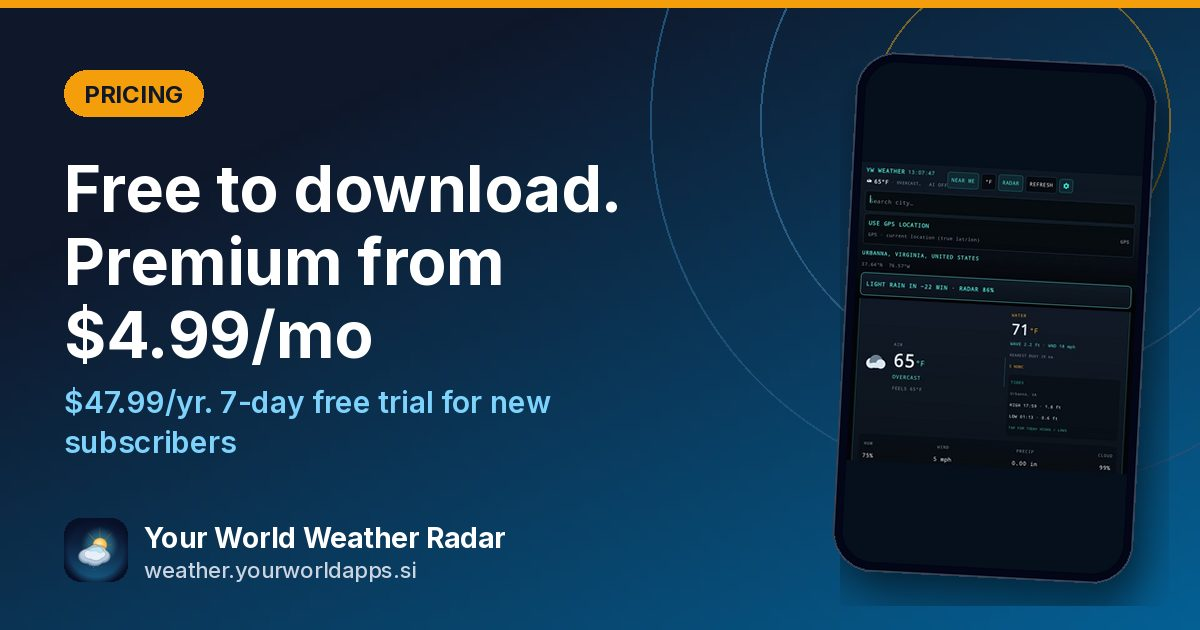
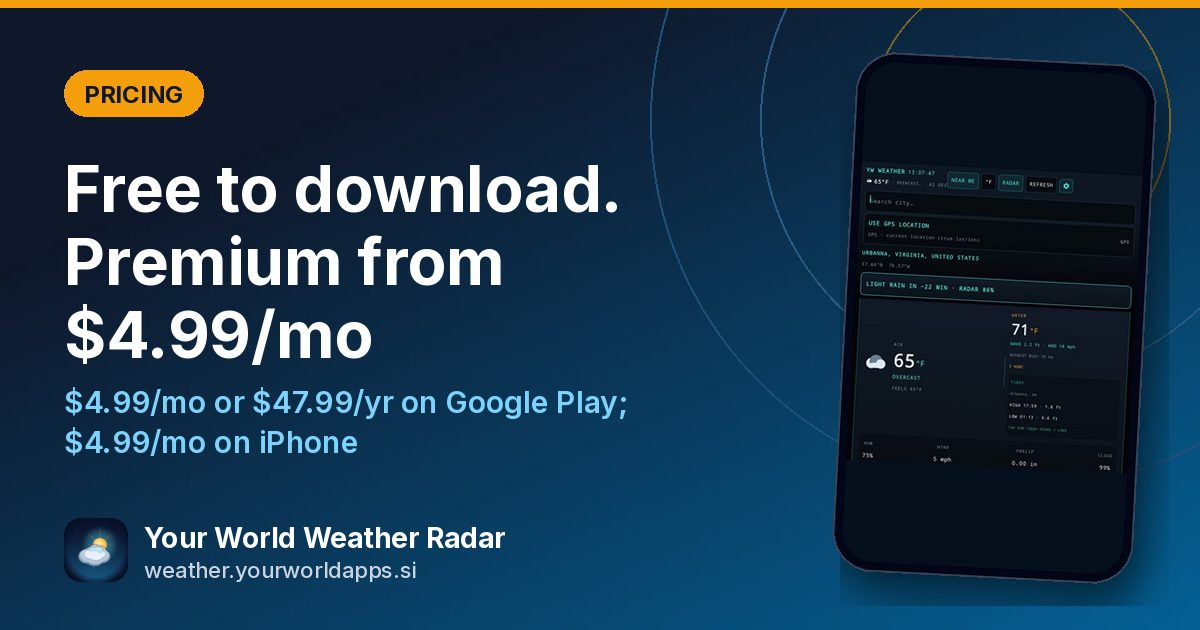
SEO: iPhone+Android meta, sitemap, guide sources, share images

Changed region(s): [[0.0308, 0.6032, 0.5242, 0.7238]]

diff --git a/index.html b/index.html
@@ -1,9 +1,9 @@
 <!doctype html>
 <html lang="en"><head><meta charset="utf-8"><meta name="viewport" content="width=device-width,initial-scale=1">
-<title>Your World Weather Radar: Live Radar, Storm Alerts &amp; AI Briefings</title><meta name="description" content="Know when rain hits your spot: a free rain ETA for your exact location, plus live radar, storm tracks and weather alerts. For Android."><link rel="canonical" href="https://weather.yourworldapps.si/">
+<title>Your World Weather Radar: Live Radar, Storm Alerts &amp; AI Briefings</title><meta name="description" content="Know when rain hits your spot: a free rain ETA for your exact location, plus live radar, storm tracks and weather alerts. For iPhone and Android."><link rel="canonical" href="https://weather.yourworldapps.si/">
 <meta property="og:type" content="website"><meta property="og:site_name" content="Your World Weather Radar"><meta property="og:title" content="Your World Weather Radar: Live Radar, Storm Alerts &amp; AI Briefings">
-<meta property="og:description" content="Know when rain hits your spot: a free rain ETA for your exact location, plus live radar, storm tracks and weather alerts. For Android."><meta property="og:url" content="https://weather.yourworldapps.si/"><meta property="og:image" content="https://weather.yourworldapps.si/assets/og-image.png?v=d64e3245af"><meta property="og:image:width" content="1200"><meta property="og:image:height" content="630">
-<meta name="twitter:card" content="summary_large_image"><meta name="twitter:title" content="Your World Weather Radar: Live Radar, Storm Alerts &amp; AI Briefings"><meta name="twitter:description" content="Know when rain hits your spot: a free rain ETA for your exact location, plus live radar, storm tracks and weather alerts. For Android."><meta name="twitter:image" content="https://weather.yourworldapps.si/assets/og-image.png?v=d64e3245af"><meta name="theme-color" content="#0F172A">
+<meta property="og:description" content="Know when rain hits your spot: a free rain ETA for your exact location, plus live radar, storm tracks and weather alerts. For iPhone and Android."><meta property="og:url" content="https://weather.yourworldapps.si/"><meta property="og:image" content="https://weather.yourworldapps.si/assets/og/index.jpg?v=73c346eb14"><meta property="og:image:width" content="1200"><meta property="og:image:height" content="630">
+<meta name="twitter:card" content="summary_large_image"><meta name="twitter:title" content="Your World Weather Radar: Live Radar, Storm Alerts &amp; AI Briefings"><meta name="twitter:description" content="Know when rain hits your spot: a free rain ETA for your exact location, plus live radar, storm tracks and weather alerts. For iPhone and Android."><meta name="twitter:image" content="https://weather.yourworldapps.si/assets/og/index.jpg?v=73c346eb14"><meta name="theme-color" content="#0F172A">
 <meta name="apple-itunes-app" content="app-id=6822555783"><link rel="icon" href="assets/favicon.png"><link rel="apple-touch-icon" href="assets/icon-192.png">
 <link rel="stylesheet" href="assets/site.css?v=8e7121f917"><link rel="stylesheet" href="/assets/launches.css?v=c8b3c43e03"><style>.home-cta{display:flex;flex-wrap:wrap;align-items:center;gap:14px 18px;margin:22px 0 10px}.home-cta .btns{margin:0}.home-plan{margin:0 0 6px}.home-qr{display:none;text-decoration:none;color:#E2E8F0;flex:0 0 auto;flex-direction:column;align-items:center;gap:8px;text-align:center}.home-qr-card{display:block;background:#fff;border-radius:14px;padding:8px;box-shadow:0 8px 24px rgba(2,6,23,.28);line-height:0}.home-qr-card img{width:112px;height:112px;display:block;border-radius:4px}.home-qr-cap{display:flex;flex-direction:column;gap:1px;font-size:.82rem;line-height:1.25}.home-qr-cap b{font-weight:700;color:#F8FAFC}.home-qr-cap small{font-size:.72rem;color:#CBD5E1}.home-qr:hover .home-qr-card{box-shadow:0 10px 28px rgba(2,6,23,.4)}.home-qr:focus-visible{outline:3px solid #7DD3FC;outline-offset:3px;border-radius:12px}@media(min-width:700px){.home-qr{display:inline-flex}.home-cta .home-store{flex-direction:column;align-items:stretch;gap:10px;max-width:280px}.home-cta .home-store .btn{justify-content:center;width:100%}}@media(max-width:699px){.home-cta .home-store{width:100%}.home-cta .home-store .btn{justify-content:center}}</style><noscript><style>.top .nav{display:flex!important;overflow-x:auto}.menu-btn{display:none!important}</style></noscript><script type="application/ld+json">{"@context": "https://schema.org", "@type": "MobileApplication", "name": "Your World Weather Radar", "operatingSystem": "Android, iOS 17.0+", "applicationCategory": "WeatherApplication", "author": {"@type": "Organization", "name": "Your World Apps", "url": "https://yourworldapps.si/", "logo": "https://weather.yourworldapps.si/assets/icon-512.png", "sameAs": ["https://www.youtube.com/channel/UCv_HP3UU30nKawvJ0AgHL3A", "https://yourworldapps.si/"]}, "installUrl": "https://play.google.com/store/apps/details?id=com.yourworld.weatheranalyzer", "sameAs": ["https://play.google.com/store/apps/details?id=com.yourworld.weatheranalyzer", "https://apps.apple.com/us/app/your-world-weather-radar/id6822555783"], "url": "https://weather.yourworldapps.si/", "offers": [{"@type": "Offer", "price": "0", "priceCurrency": "USD"}]}</script><script type="application/ld+json">{"@context": "https://schema.org", "@type": "Organization", "name": "Your World Apps", "url": "https://yourworldapps.si/", "logo": "https://weather.yourworldapps.si/assets/icon-512.png", "sameAs": ["https://www.youtube.com/channel/UCv_HP3UU30nKawvJ0AgHL3A", "https://yourworldapps.si/"]}</script><script type="application/ld+json">{"@context": "https://schema.org", "@type": "WebSite", "name": "Your World Weather Radar", "url": "https://weather.yourworldapps.si/", "publisher": {"@type": "Organization", "name": "Your World Apps", "url": "https://yourworldapps.si/", "logo": "https://weather.yourworldapps.si/assets/icon-512.png", "sameAs": ["https://www.youtube.com/channel/UCv_HP3UU30nKawvJ0AgHL3A", "https://yourworldapps.si/"]}}</script><script>window.YW_ATLAS="/assets/atlas.svg?v=d7aed4abbf"</script><script>(function(){var w=window,d=document,ID="G-BDB2EH3W4Z",K="yw-analytics-consent",c=null,tz="",on=false;w.dataLayer=w.dataLayer||[];function g(){dataLayer.push(arguments)}w.gtag=g;try{c=localStorage.getItem(K)}catch(e){}if(c!=="granted"&&c!=="denied")c=null;try{tz=Intl.DateTimeFormat().resolvedOptions().timeZone||""}catch(e){}var eu=/^Europe\//.test(tz)||/^(Atlantic\/(Canary|Madeira|Azores|Reykjavik|Faroe)|Arctic\/Longyearbyen)$/.test(tz);var A={ad_storage:"denied",ad_user_data:"denied",ad_personalization:"denied",wait_for_update:500};g("consent","default",Object.assign({analytics_storage:"denied",region:["AT","BE","BG","HR","CY","CZ","DK","EE","FI","FR","DE","GR","HU","IE","IT","LV","LT","LU","MT","NL","PL","PT","RO","SK","SI","ES","SE","IS","LI","NO","GB","CH"]},A));g("consent","default",Object.assign({analytics_storage:"granted"},A));if(c)g("consent","update",{analytics_storage:c});function load(){if(on)return;on=true;g("js",new Date());g("config",ID);var s=d.createElement("script");s.async=true;s.src="https://www.googletagmanager.com/gtag/js?id="+ID;d.head.appendChild(s)}w.YW_GA={eu:eu,choice:c,set:function(v){this.choice=v;try{localStorage.setItem(K,v)}catch(e){}g("consent","update",{analytics_storage:v});if(v==="granted")load();else d.cookie.split(";").forEach(function(x){var n=x.split("=")[0].trim();if(/^_ga/.test(n))["",";domain=.yourworldapps.si",";domain="+location.hostname].forEach(function(m){d.cookie=n+"=;expires=Thu, 01 Jan 1970 00:00:00 GMT;path=/"+m})})}};if(c==="granted"||(!c&&!eu))load()})();</script></head><body>
 <header class="top"><div class="wrap"><a class="brand" href="./"><img src="assets/icon-192.png" width="34" height="34" alt="">Your World Weather Radar</a><button type="button" class="menu-btn" aria-expanded="false" aria-controls="main-nav" aria-label="Open menu"><span class="mb-i" aria-hidden="true"></span><span class="mb-t">Menu</span></button><nav class="nav" id="main-nav" aria-label="Main"><a href="./" aria-current="page">Home</a><a href="flight/" data-ev="flight_page" data-sec="nav">Track my flight</a><a href="features.html">Features</a><a href="alert-planner/">Alert Planner</a><a href="trip-planner/">Trip Planner</a><a href="ask.html">Ask Atlas</a><a href="outlook.html">Outlook</a><a href="launches/">Launches</a><a href="guides/">Guides</a><a href="gear/">Gear</a><a href="pricing.html">Pricing</a><a href="support.html">Support</a></nav></div></header>

diff --git a/get/index.html b/get/index.html
@@ -1,11 +1,11 @@
 <!doctype html>
 <html lang="en"><head><meta charset="utf-8"><meta name="viewport" content="width=device-width,initial-scale=1">
-<title>Get Your World Weather Radar</title><meta name="description" content="Download Your World Weather Radar on Google Play or the App Store."><link rel="canonical" href="https://weather.yourworldapps.si/get/">
+<title>Get Your World Weather Radar</title><meta name="description" content="Download Your World Weather Radar on the App Store and Google Play. Free rain ETA, live radar and alerts for iPhone and Android."><link rel="canonical" href="https://weather.yourworldapps.si/get/">
 <meta property="og:type" content="website"><meta property="og:site_name" content="Your World Weather Radar"><meta property="og:title" content="Get Your World Weather Radar">
-<meta property="og:description" content="Download Your World Weather Radar on Google Play or the App Store."><meta property="og:url" content="https://weather.yourworldapps.si/get/"><meta property="og:image" content="https://weather.yourworldapps.si/assets/og-image.png?v=d64e3245af"><meta property="og:image:width" content="1200"><meta property="og:image:height" content="630">
-<meta name="twitter:card" content="summary_large_image"><meta name="twitter:title" content="Get Your World Weather Radar"><meta name="twitter:description" content="Download Your World Weather Radar on Google Play or the App Store."><meta name="twitter:image" content="https://weather.yourworldapps.si/assets/og-image.png?v=d64e3245af"><meta name="theme-color" content="#0F172A">
+<meta property="og:description" content="Download Your World Weather Radar on the App Store and Google Play. Free rain ETA, live radar and alerts for iPhone and Android."><meta property="og:url" content="https://weather.yourworldapps.si/get/"><meta property="og:image" content="https://weather.yourworldapps.si/assets/og/get.jpg?v=4ead9f20f2"><meta property="og:image:width" content="1200"><meta property="og:image:height" content="630">
+<meta name="twitter:card" content="summary_large_image"><meta name="twitter:title" content="Get Your World Weather Radar"><meta name="twitter:description" content="Download Your World Weather Radar on the App Store and Google Play. Free rain ETA, live radar and alerts for iPhone and Android."><meta name="twitter:image" content="https://weather.yourworldapps.si/assets/og/get.jpg?v=4ead9f20f2"><meta name="theme-color" content="#0F172A">
 <meta name="apple-itunes-app" content="app-id=6822555783"><link rel="icon" href="../assets/favicon.png"><link rel="apple-touch-icon" href="../assets/icon-192.png">
-<link rel="stylesheet" href="../assets/site.css?v=8e7121f917"><meta name="robots" content="noindex"><script>(function(){var ua=navigator.userAgent||"";var iOS=/iPhone|iPod/i.test(ua)||/iPad/i.test(ua)||(/Macintosh/i.test(ua)&&navigator.maxTouchPoints>1);var android=/Android/i.test(ua);if(iOS){location.replace("https://apps.apple.com/us/app/your-world-weather-radar/id6822555783");return;}if(android){location.replace("https://play.google.com/store/apps/details?id=com.yourworld.weatheranalyzer");return;}})();</script><style>.get-hero .wrap{text-align:center;padding:40px 20px 28px;max-width:560px}.get-hero h1{font-size:clamp(1.6rem,5vw,2rem);margin:.35em 0 .25em}.get-btns{display:flex;flex-direction:column;align-items:stretch}.get-btns .btn{justify-content:center;width:100%;max-width:360px;margin:0 auto}@media(min-width:480px){.get-btns{flex-direction:row!important;flex-wrap:wrap}.get-btns .btn{width:auto;max-width:none}}</style><noscript><style>.top .nav{display:flex!important;overflow-x:auto}.menu-btn{display:none!important}</style></noscript><script>window.YW_ATLAS="/assets/atlas.svg?v=d7aed4abbf"</script><script>(function(){var w=window,d=document,ID="G-BDB2EH3W4Z",K="yw-analytics-consent",c=null,tz="",on=false;w.dataLayer=w.dataLayer||[];function g(){dataLayer.push(arguments)}w.gtag=g;try{c=localStorage.getItem(K)}catch(e){}if(c!=="granted"&&c!=="denied")c=null;try{tz=Intl.DateTimeFormat().resolvedOptions().timeZone||""}catch(e){}var eu=/^Europe\//.test(tz)||/^(Atlantic\/(Canary|Madeira|Azores|Reykjavik|Faroe)|Arctic\/Longyearbyen)$/.test(tz);var A={ad_storage:"denied",ad_user_data:"denied",ad_personalization:"denied",wait_for_update:500};g("consent","default",Object.assign({analytics_storage:"denied",region:["AT","BE","BG","HR","CY","CZ","DK","EE","FI","FR","DE","GR","HU","IE","IT","LV","LT","LU","MT","NL","PL","PT","RO","SK","SI","ES","SE","IS","LI","NO","GB","CH"]},A));g("consent","default",Object.assign({analytics_storage:"granted"},A));if(c)g("consent","update",{analytics_storage:c});function load(){if(on)return;on=true;g("js",new Date());g("config",ID);var s=d.createElement("script");s.async=true;s.src="https://www.googletagmanager.com/gtag/js?id="+ID;d.head.appendChild(s)}w.YW_GA={eu:eu,choice:c,set:function(v){this.choice=v;try{localStorage.setItem(K,v)}catch(e){}g("consent","update",{analytics_storage:v});if(v==="granted")load();else d.cookie.split(";").forEach(function(x){var n=x.split("=")[0].trim();if(/^_ga/.test(n))["",";domain=.yourworldapps.si",";domain="+location.hostname].forEach(function(m){d.cookie=n+"=;expires=Thu, 01 Jan 1970 00:00:00 GMT;path=/"+m})})}};if(c==="granted"||(!c&&!eu))load()})();</script></head><body>
+<link rel="stylesheet" href="../assets/site.css?v=8e7121f917"><script>(function(){var ua=navigator.userAgent||"";var iOS=/iPhone|iPod/i.test(ua)||/iPad/i.test(ua)||(/Macintosh/i.test(ua)&&navigator.maxTouchPoints>1);var android=/Android/i.test(ua);if(iOS){location.replace("https://apps.apple.com/us/app/your-world-weather-radar/id6822555783");return;}if(android){location.replace("https://play.google.com/store/apps/details?id=com.yourworld.weatheranalyzer");return;}})();</script><style>.get-hero .wrap{text-align:center;padding:40px 20px 28px;max-width:560px}.get-hero h1{font-size:clamp(1.6rem,5vw,2rem);margin:.35em 0 .25em}.get-btns{display:flex;flex-direction:column;align-items:stretch}.get-btns .btn{justify-content:center;width:100%;max-width:360px;margin:0 auto}@media(min-width:480px){.get-btns{flex-direction:row!important;flex-wrap:wrap}.get-btns .btn{width:auto;max-width:none}}</style><noscript><style>.top .nav{display:flex!important;overflow-x:auto}.menu-btn{display:none!important}</style></noscript><script>window.YW_ATLAS="/assets/atlas.svg?v=d7aed4abbf"</script><script>(function(){var w=window,d=document,ID="G-BDB2EH3W4Z",K="yw-analytics-consent",c=null,tz="",on=false;w.dataLayer=w.dataLayer||[];function g(){dataLayer.push(arguments)}w.gtag=g;try{c=localStorage.getItem(K)}catch(e){}if(c!=="granted"&&c!=="denied")c=null;try{tz=Intl.DateTimeFormat().resolvedOptions().timeZone||""}catch(e){}var eu=/^Europe\//.test(tz)||/^(Atlantic\/(Canary|Madeira|Azores|Reykjavik|Faroe)|Arctic\/Longyearbyen)$/.test(tz);var A={ad_storage:"denied",ad_user_data:"denied",ad_personalization:"denied",wait_for_update:500};g("consent","default",Object.assign({analytics_storage:"denied",region:["AT","BE","BG","HR","CY","CZ","DK","EE","FI","FR","DE","GR","HU","IE","IT","LV","LT","LU","MT","NL","PL","PT","RO","SK","SI","ES","SE","IS","LI","NO","GB","CH"]},A));g("consent","default",Object.assign({analytics_storage:"granted"},A));if(c)g("consent","update",{analytics_storage:c});function load(){if(on)return;on=true;g("js",new Date());g("config",ID);var s=d.createElement("script");s.async=true;s.src="https://www.googletagmanager.com/gtag/js?id="+ID;d.head.appendChild(s)}w.YW_GA={eu:eu,choice:c,set:function(v){this.choice=v;try{localStorage.setItem(K,v)}catch(e){}g("consent","update",{analytics_storage:v});if(v==="granted")load();else d.cookie.split(";").forEach(function(x){var n=x.split("=")[0].trim();if(/^_ga/.test(n))["",";domain=.yourworldapps.si",";domain="+location.hostname].forEach(function(m){d.cookie=n+"=;expires=Thu, 01 Jan 1970 00:00:00 GMT;path=/"+m})})}};if(c==="granted"||(!c&&!eu))load()})();</script></head><body>
 <header class="top"><div class="wrap"><a class="brand" href="../"><img src="../assets/icon-192.png" width="34" height="34" alt="">Your World Weather Radar</a></div></header>
 <main><section class="hero go-hero get-hero"><div class="wrap">
 <img class="go-ico" src="../assets/icon-192.png?v=81dd8579f0" width="72" height="72" alt="" style="margin:0 auto 8px;border-radius:16px">

diff --git a/flight/index.html b/flight/index.html
@@ -2,8 +2,8 @@
 <html lang="en"><head><meta charset="utf-8"><meta name="viewport" content="width=device-width,initial-scale=1">
 <title>Track my flight · Free flight tracker | Your World Weather Radar</title><meta name="description" content="Free flight tracker: live position, weather and FAA delays at both airports, storms on the route and a plain-English delay estimate."><link rel="canonical" href="https://weather.yourworldapps.si/flight/">
 <meta property="og:type" content="website"><meta property="og:site_name" content="Your World Weather Radar"><meta property="og:title" content="Track my flight · Free flight tracker | Your World Weather Radar">
-<meta property="og:description" content="Free flight tracker: live position, weather and FAA delays at both airports, storms on the route and a plain-English delay estimate."><meta property="og:url" content="https://weather.yourworldapps.si/flight/"><meta property="og:image" content="https://weather.yourworldapps.si/assets/og-image.png?v=d64e3245af"><meta property="og:image:width" content="1200"><meta property="og:image:height" content="630">
-<meta name="twitter:card" content="summary_large_image"><meta name="twitter:title" content="Track my flight · Free flight tracker | Your World Weather Radar"><meta name="twitter:description" content="Free flight tracker: live position, weather and FAA delays at both airports, storms on the route and a plain-English delay estimate."><meta name="twitter:image" content="https://weather.yourworldapps.si/assets/og-image.png?v=d64e3245af"><meta name="theme-color" content="#0F172A">
+<meta property="og:description" content="Free flight tracker: live position, weather and FAA delays at both airports, storms on the route and a plain-English delay estimate."><meta property="og:url" content="https://weather.yourworldapps.si/flight/"><meta property="og:image" content="https://weather.yourworldapps.si/assets/og/flight.jpg?v=07129f081e"><meta property="og:image:width" content="1200"><meta property="og:image:height" content="630">
+<meta name="twitter:card" content="summary_large_image"><meta name="twitter:title" content="Track my flight · Free flight tracker | Your World Weather Radar"><meta name="twitter:description" content="Free flight tracker: live position, weather and FAA delays at both airports, storms on the route and a plain-English delay estimate."><meta name="twitter:image" content="https://weather.yourworldapps.si/assets/og/flight.jpg?v=07129f081e"><meta name="theme-color" content="#0F172A">
 <meta name="apple-itunes-app" content="app-id=6822555783"><link rel="icon" href="../assets/favicon.png"><link rel="apple-touch-icon" href="../assets/icon-192.png">
 <link rel="stylesheet" href="../assets/site.css?v=8e7121f917"><link rel="stylesheet" href="../assets/flight.css?v=aadf94ce3a"><noscript><style>.top .nav{display:flex!important;overflow-x:auto}.menu-btn{display:none!important}</style></noscript><script>window.YW_ATLAS="/assets/atlas.svg?v=d7aed4abbf"</script><script>(function(){var w=window,d=document,ID="G-BDB2EH3W4Z",K="yw-analytics-consent",c=null,tz="",on=false;w.dataLayer=w.dataLayer||[];function g(){dataLayer.push(arguments)}w.gtag=g;try{c=localStorage.getItem(K)}catch(e){}if(c!=="granted"&&c!=="denied")c=null;try{tz=Intl.DateTimeFormat().resolvedOptions().timeZone||""}catch(e){}var eu=/^Europe\//.test(tz)||/^(Atlantic\/(Canary|Madeira|Azores|Reykjavik|Faroe)|Arctic\/Longyearbyen)$/.test(tz);var A={ad_storage:"denied",ad_user_data:"denied",ad_personalization:"denied",wait_for_update:500};g("consent","default",Object.assign({analytics_storage:"denied",region:["AT","BE","BG","HR","CY","CZ","DK","EE","FI","FR","DE","GR","HU","IE","IT","LV","LT","LU","MT","NL","PL","PT","RO","SK","SI","ES","SE","IS","LI","NO","GB","CH"]},A));g("consent","default",Object.assign({analytics_storage:"granted"},A));if(c)g("consent","update",{analytics_storage:c});function load(){if(on)return;on=true;g("js",new Date());g("config",ID);var s=d.createElement("script");s.async=true;s.src="https://www.googletagmanager.com/gtag/js?id="+ID;d.head.appendChild(s)}w.YW_GA={eu:eu,choice:c,set:function(v){this.choice=v;try{localStorage.setItem(K,v)}catch(e){}g("consent","update",{analytics_storage:v});if(v==="granted")load();else d.cookie.split(";").forEach(function(x){var n=x.split("=")[0].trim();if(/^_ga/.test(n))["",";domain=.yourworldapps.si",";domain="+location.hostname].forEach(function(m){d.cookie=n+"=;expires=Thu, 01 Jan 1970 00:00:00 GMT;path=/"+m})})}};if(c==="granted"||(!c&&!eu))load()})();</script></head><body>
 <header class="top"><div class="wrap"><a class="brand" href="../"><img src="../assets/icon-192.png" width="34" height="34" alt="">Your World Weather Radar</a><button type="button" class="menu-btn" aria-expanded="false" aria-controls="main-nav" aria-label="Open menu"><span class="mb-i" aria-hidden="true"></span><span class="mb-t">Menu</span></button><nav class="nav" id="main-nav" aria-label="Main"><a href="../">Home</a><a href="../flight/" aria-current="page" data-ev="flight_page" data-sec="nav">Track my flight</a><a href="../features.html">Features</a><a href="../alert-planner/">Alert Planner</a><a href="../trip-planner/">Trip Planner</a><a href="../ask.html">Ask Atlas</a><a href="../outlook.html">Outlook</a><a href="../launches/">Launches</a><a href="../guides/">Guides</a><a href="../gear/">Gear</a><a href="../pricing.html">Pricing</a><a href="../support.html">Support</a></nav></div></header>

diff --git a/pricing.html b/pricing.html
@@ -2,8 +2,8 @@
 <html lang="en"><head><meta charset="utf-8"><meta name="viewport" content="width=device-width,initial-scale=1">
 <title>Pricing | Your World Weather Radar</title><meta name="description" content="Your World Weather Radar is free on Android and iPhone. Premium is $4.99 per month or $47.99 per year through Google Play, or $4.99 per month on iPhone."><link rel="canonical" href="https://weather.yourworldapps.si/pricing.html">
 <meta property="og:type" content="website"><meta property="og:site_name" content="Your World Weather Radar"><meta property="og:title" content="Pricing | Your World Weather Radar">
-<meta property="og:description" content="Your World Weather Radar is free on Android and iPhone. Premium is $4.99 per month or $47.99 per year through Google Play, or $4.99 per month on iPhone."><meta property="og:url" content="https://weather.yourworldapps.si/pricing.html"><meta property="og:image" content="https://weather.yourworldapps.si/assets/og/pricing.jpg?v=60ad2fab71"><meta property="og:image:width" content="1200"><meta property="og:image:height" content="630">
-<meta name="twitter:card" content="summary_large_image"><meta name="twitter:title" content="Pricing | Your World Weather Radar"><meta name="twitter:description" content="Your World Weather Radar is free on Android and iPhone. Premium is $4.99 per month or $47.99 per year through Google Play, or $4.99 per month on iPhone."><meta name="twitter:image" content="https://weather.yourworldapps.si/assets/og/pricing.jpg?v=60ad2fab71"><meta name="theme-color" content="#0F172A">
+<meta property="og:description" content="Your World Weather Radar is free on Android and iPhone. Premium is $4.99 per month or $47.99 per year through Google Play, or $4.99 per month on iPhone."><meta property="og:url" content="https://weather.yourworldapps.si/pricing.html"><meta property="og:image" content="https://weather.yourworldapps.si/assets/og/pricing.jpg?v=3a7eb07c41"><meta property="og:image:width" content="1200"><meta property="og:image:height" content="630">
+<meta name="twitter:card" content="summary_large_image"><meta name="twitter:title" content="Pricing | Your World Weather Radar"><meta name="twitter:description" content="Your World Weather Radar is free on Android and iPhone. Premium is $4.99 per month or $47.99 per year through Google Play, or $4.99 per month on iPhone."><meta name="twitter:image" content="https://weather.yourworldapps.si/assets/og/pricing.jpg?v=3a7eb07c41"><meta name="theme-color" content="#0F172A">
 <meta name="apple-itunes-app" content="app-id=6822555783"><link rel="icon" href="assets/favicon.png"><link rel="apple-touch-icon" href="assets/icon-192.png">
 <link rel="stylesheet" href="assets/site.css?v=8e7121f917"><noscript><style>.top .nav{display:flex!important;overflow-x:auto}.menu-btn{display:none!important}</style></noscript><script>window.YW_ATLAS="/assets/atlas.svg?v=d7aed4abbf"</script><script>(function(){var w=window,d=document,ID="G-BDB2EH3W4Z",K="yw-analytics-consent",c=null,tz="",on=false;w.dataLayer=w.dataLayer||[];function g(){dataLayer.push(arguments)}w.gtag=g;try{c=localStorage.getItem(K)}catch(e){}if(c!=="granted"&&c!=="denied")c=null;try{tz=Intl.DateTimeFormat().resolvedOptions().timeZone||""}catch(e){}var eu=/^Europe\//.test(tz)||/^(Atlantic\/(Canary|Madeira|Azores|Reykjavik|Faroe)|Arctic\/Longyearbyen)$/.test(tz);var A={ad_storage:"denied",ad_user_data:"denied",ad_personalization:"denied",wait_for_update:500};g("consent","default",Object.assign({analytics_storage:"denied",region:["AT","BE","BG","HR","CY","CZ","DK","EE","FI","FR","DE","GR","HU","IE","IT","LV","LT","LU","MT","NL","PL","PT","RO","SK","SI","ES","SE","IS","LI","NO","GB","CH"]},A));g("consent","default",Object.assign({analytics_storage:"granted"},A));if(c)g("consent","update",{analytics_storage:c});function load(){if(on)return;on=true;g("js",new Date());g("config",ID);var s=d.createElement("script");s.async=true;s.src="https://www.googletagmanager.com/gtag/js?id="+ID;d.head.appendChild(s)}w.YW_GA={eu:eu,choice:c,set:function(v){this.choice=v;try{localStorage.setItem(K,v)}catch(e){}g("consent","update",{analytics_storage:v});if(v==="granted")load();else d.cookie.split(";").forEach(function(x){var n=x.split("=")[0].trim();if(/^_ga/.test(n))["",";domain=.yourworldapps.si",";domain="+location.hostname].forEach(function(m){d.cookie=n+"=;expires=Thu, 01 Jan 1970 00:00:00 GMT;path=/"+m})})}};if(c==="granted"||(!c&&!eu))load()})();</script></head><body>
 <header class="top"><div class="wrap"><a class="brand" href="./"><img src="assets/icon-192.png" width="34" height="34" alt="">Your World Weather Radar</a><button type="button" class="menu-btn" aria-expanded="false" aria-controls="main-nav" aria-label="Open menu"><span class="mb-i" aria-hidden="true"></span><span class="mb-t">Menu</span></button><nav class="nav" id="main-nav" aria-label="Main"><a href="./">Home</a><a href="flight/" data-ev="flight_page" data-sec="nav">Track my flight</a><a href="features.html">Features</a><a href="alert-planner/">Alert Planner</a><a href="trip-planner/">Trip Planner</a><a href="ask.html">Ask Atlas</a><a href="outlook.html">Outlook</a><a href="launches/">Launches</a><a href="guides/">Guides</a><a href="gear/">Gear</a><a href="pricing.html" aria-current="page">Pricing</a><a href="support.html">Support</a></nav></div></header>

diff --git a/go/index.html b/go/index.html
@@ -1,9 +1,9 @@
 <!doctype html>
 <html lang="en"><head><meta charset="utf-8"><meta name="viewport" content="width=device-width,initial-scale=1">
-<title>Get Your World Weather Radar on Google Play</title><meta name="description" content="Know when rain hits your spot: free rain ETA, live radar, storm tracks and NWS alerts for Android."><link rel="canonical" href="https://weather.yourworldapps.si/go/">
-<meta property="og:type" content="website"><meta property="og:site_name" content="Your World Weather Radar"><meta property="og:title" content="Get Your World Weather Radar on Google Play">
-<meta property="og:description" content="Know when rain hits your spot: free rain ETA, live radar, storm tracks and NWS alerts for Android."><meta property="og:url" content="https://weather.yourworldapps.si/go/"><meta property="og:image" content="https://weather.yourworldapps.si/assets/og/go.jpg?v=8d2f44e9d6"><meta property="og:image:width" content="1200"><meta property="og:image:height" content="630">
-<meta name="twitter:card" content="summary_large_image"><meta name="twitter:title" content="Get Your World Weather Radar on Google Play"><meta name="twitter:description" content="Know when rain hits your spot: free rain ETA, live radar, storm tracks and NWS alerts for Android."><meta name="twitter:image" content="https://weather.yourworldapps.si/assets/og/go.jpg?v=8d2f44e9d6"><meta name="theme-color" content="#0F172A">
+<title>Get Your World Weather Radar</title><meta name="description" content="Know when rain hits your spot: free rain ETA, live radar, storm tracks and NWS alerts for iPhone and Android."><link rel="canonical" href="https://weather.yourworldapps.si/go/">
+<meta property="og:type" content="website"><meta property="og:site_name" content="Your World Weather Radar"><meta property="og:title" content="Get Your World Weather Radar">
+<meta property="og:description" content="Know when rain hits your spot: free rain ETA, live radar, storm tracks and NWS alerts for iPhone and Android."><meta property="og:url" content="https://weather.yourworldapps.si/go/"><meta property="og:image" content="https://weather.yourworldapps.si/assets/og/go.jpg?v=8d2f44e9d6"><meta property="og:image:width" content="1200"><meta property="og:image:height" content="630">
+<meta name="twitter:card" content="summary_large_image"><meta name="twitter:title" content="Get Your World Weather Radar"><meta name="twitter:description" content="Know when rain hits your spot: free rain ETA, live radar, storm tracks and NWS alerts for iPhone and Android."><meta name="twitter:image" content="https://weather.yourworldapps.si/assets/og/go.jpg?v=8d2f44e9d6"><meta name="theme-color" content="#0F172A">
 <meta name="apple-itunes-app" content="app-id=6822555783"><link rel="icon" href="../assets/favicon.png"><link rel="apple-touch-icon" href="../assets/icon-192.png">
 <link rel="stylesheet" href="../assets/site.css?v=8e7121f917"><script>(function(){var W=["tiktok", "facebook", "reddit", "x", "youtube", "instagram"],q=new URLSearchParams(location.search),s=(q.get("src")||q.get("utm_source")||"").toLowerCase();if(W.indexOf(s)<0)return;window.YW_GO_SRC=s;if(q.get("utm_source")!==s||q.has("src")){q.delete("src");q.set("utm_source",s);q.set("utm_medium","social");q.set("utm_campaign","bio");try{history.replaceState(null,"",location.pathname+"?"+q.toString()+location.hash)}catch(e){}}})();</script><noscript><style>.top .nav{display:flex!important;overflow-x:auto}.menu-btn{display:none!important}</style></noscript><script>window.YW_ATLAS="/assets/atlas.svg?v=d7aed4abbf"</script><script>(function(){var w=window,d=document,ID="G-BDB2EH3W4Z",K="yw-analytics-consent",c=null,tz="",on=false;w.dataLayer=w.dataLayer||[];function g(){dataLayer.push(arguments)}w.gtag=g;try{c=localStorage.getItem(K)}catch(e){}if(c!=="granted"&&c!=="denied")c=null;try{tz=Intl.DateTimeFormat().resolvedOptions().timeZone||""}catch(e){}var eu=/^Europe\//.test(tz)||/^(Atlantic\/(Canary|Madeira|Azores|Reykjavik|Faroe)|Arctic\/Longyearbyen)$/.test(tz);var A={ad_storage:"denied",ad_user_data:"denied",ad_personalization:"denied",wait_for_update:500};g("consent","default",Object.assign({analytics_storage:"denied",region:["AT","BE","BG","HR","CY","CZ","DK","EE","FI","FR","DE","GR","HU","IE","IT","LV","LT","LU","MT","NL","PL","PT","RO","SK","SI","ES","SE","IS","LI","NO","GB","CH"]},A));g("consent","default",Object.assign({analytics_storage:"granted"},A));if(c)g("consent","update",{analytics_storage:c});function load(){if(on)return;on=true;g("js",new Date());g("config",ID);var s=d.createElement("script");s.async=true;s.src="https://www.googletagmanager.com/gtag/js?id="+ID;d.head.appendChild(s)}w.YW_GA={eu:eu,choice:c,set:function(v){this.choice=v;try{localStorage.setItem(K,v)}catch(e){}g("consent","update",{analytics_storage:v});if(v==="granted")load();else d.cookie.split(";").forEach(function(x){var n=x.split("=")[0].trim();if(/^_ga/.test(n))["",";domain=.yourworldapps.si",";domain="+location.hostname].forEach(function(m){d.cookie=n+"=;expires=Thu, 01 Jan 1970 00:00:00 GMT;path=/"+m})})}};if(c==="granted"||(!c&&!eu))load()})();</script></head><body>
 <header class="top"><div class="wrap"><a class="brand" href="../"><img src="../assets/icon-192.png" width="34" height="34" alt="">Your World Weather Radar</a></div></header>

diff --git a/_src/build.py b/_src/build.py
@@ -23,7 +23,7 @@ OG_SPECS = {
  "index.html": dict(kicker="Free rain ETA", title="Know when rain hits your spot", sub="Live radar, storm tracks and weather alerts for Android and iPhone", visual=["shot-home.jpg", "app-radar.jpg"]),
  "outlook.html": dict(kicker="Live now", title="The whole planet's weather, live", sub="Satellite loop, hurricanes and typhoons, US alerts and the Sun", visual=["app-radar.jpg"]),
  "features.html": dict(kicker="Features", title="What's free and what's Premium", sub="Rain ETA, radar, alerts, AI briefings, cams and more", visual=["app-hurricane.jpg", "shot-home.jpg"]),
- "pricing.html": dict(kicker="Pricing", title="Free to download. Premium from $4.99/mo", sub="$47.99/yr. 7-day free trial for new subscribers", visual=["shot-home.jpg"]),
+ "pricing.html": dict(kicker="Pricing", title="Free to download. Premium from $4.99/mo", sub="$4.99/mo or $47.99/yr on Google Play; $4.99/mo on iPhone", visual=["shot-home.jpg"]),
  "alert-planner/index.html": dict(kicker="Alert Planner", title="Plan alerts for a day out", sub="Place, activity and dates in one link for your phone", visual=["app-hurricane.jpg"]),
  "trip-planner/index.html": dict(kicker="Trip Planner", title="Weather for your whole trip", sub="Destination, dates and how you're traveling", visual=["app-radar.jpg"]),
  "ask.html": dict(kicker="Ask Atlas", title="Weather safety answers in plain English", sub="Sourced from NWS and NOAA guides", visual=["shot-home.jpg"]),
@@ -31,7 +31,8 @@ OG_SPECS = {
  "guides/index.html": dict(kicker="Weather guides", title="Weather safety guides", sub="Radar, watches vs. warnings, hurricanes, lightning and more", visual=["app-radar.jpg"]),
  "static-fire/index.html": dict(kicker="Free simulator", title="Starship static fire simulator", sub="Fan-made and simulated, not real. Runs in your browser", visual=["static-fire-shot.jpg"]),
  "launches/index.html": dict(kicker="Rocket launches", title="Next launch countdown and schedule", sub="Upcoming launches worldwide and weather at the main US launch sites", visual=["launch-teaser.jpg"]),
- "get/index.html": dict(kicker="Get the app", title="Know when rain hits your spot", sub="Free rain ETA, live radar and alerts on Google Play and the App Store", visual=["shot-home.jpg", "app-radar.jpg"]),
+ "flight/index.html": dict(kicker="Track my flight", title="Track my flight", sub="Live plane, weather and delay outlook for your trip", visual=["app-radar.jpg", "shot-home.jpg"]),
+ "get/index.html": dict(kicker="Get the app", title="Your World Weather Radar", sub="Get it on iPhone and Android", visual=["shot-home.jpg", "app-radar.jpg"]),
  "go/index.html": dict(kicker="Get the app", title="Know when rain hits your spot", sub="Free rain ETA, live radar and alerts on Google Play and the App Store", visual=["shot-home.jpg", "app-hurricane.jpg"]),
 }
 OG_IMG = {}  # path -> "og/<slug>.jpg", filled by build_og()
@@ -241,7 +242,7 @@ def flight_home():
             "a plain-English delay estimate, and what to do if you're delayed.</p>"
             '<span class="fl-promo-go">Open Track my flight →</span></span></a>')
 
-HOME_DESC = "Know when rain hits your spot: a free rain ETA for your exact location, plus live radar, storm tracks and weather alerts. For Android."
+HOME_DESC = "Know when rain hits your spot: a free rain ETA for your exact location, plus live radar, storm tracks and weather alerts. For iPhone and Android."
 def home():
     h = f'''<section class="hero home"><div class="blip"></div><div class="wrap"><div>
 <h1>Know when rain hits your spot.</h1>
@@ -573,7 +574,6 @@ def ask():
 def get_page():
     """Phones jump to the right store; desktop/unknown see both buttons. Used by the shared QR flyer."""
     head = (
-        '<meta name="robots" content="noindex">'
         '<script>(function(){var ua=navigator.userAgent||"";'
         'var iOS=/iPhone|iPod/i.test(ua)||/iPad/i.test(ua)||(/Macintosh/i.test(ua)&&navigator.maxTouchPoints>1);'
         'var android=/Android/i.test(ua);'
@@ -600,8 +600,8 @@ def get_page():
 <p class="dim small" style="text-align:center">JavaScript is off, so pick your store above.</p></noscript>
 <p class="dim small" style="margin-top:28px"><a href="../">Visit the full website</a> · <a href="../features.html">Features</a> · <a href="../pricing.html">Pricing</a></p>
 </div>'''
-    page("get/index.html", f"Get {APP}", "Download Your World Weather Radar on Google Play or the App Store.",
-         b, h, "0.5", slug="get", minimal=True, playbar=False, head_extra=head, sitemap=False)
+    page("get/index.html", f"Get {APP}", "Download Your World Weather Radar on the App Store and Google Play. Free rain ETA, live radar and alerts for iPhone and Android.",
+         b, h, "0.7", slug="get", minimal=True, playbar=False, head_extra=head, sitemap=True)
 
 # ---------- /go/ social bio landing page (+ /tiktok/ and /facebook/ aliases) ----------
 # ?src= is whitelisted; it becomes the Play install referrer (utm_source=<src>&utm_medium=social&utm_campaign=bio) and is
@@ -629,8 +629,8 @@ def go_page():
 <p class="dim small" style="text-align:center"><a href="../">Visit the full website</a> · <a href="../outlook.html">Live storm Outlook</a> · <a href="../pricing.html">Pricing</a></p>
 <script>(function(){{var s=window.YW_GO_SRC;if(!s)return;var u="{PLAY}&referrer="+encodeURIComponent("utm_source="+s+"&utm_medium=social&utm_campaign=bio");
 document.querySelectorAll("[data-go-play]").forEach(function(a){{a.href=u}})}})();</script>'''
-    page("go/index.html", f"Get {APP} on Google Play", "Know when rain hits your spot: free rain ETA, live radar, storm tracks and NWS alerts for Android.", b, h, "0.5",
-         slug="go", minimal=True, playbar=False, head_extra=head, sitemap=False)
+    page("go/index.html", f"Get {APP}", "Know when rain hits your spot: free rain ETA, live radar, storm tracks and NWS alerts for iPhone and Android.", b, h, "0.7",
+         slug="go", minimal=True, playbar=False, head_extra=head, sitemap=True)
     for a in GO_ALIASES:
         (ROOT / a).mkdir(exist_ok=True)
         (ROOT / a / "index.html").write_text(f'''<!doctype html><html lang="en"><head><meta charset="utf-8"><meta name="viewport" content="width=device-width,initial-scale=1">
